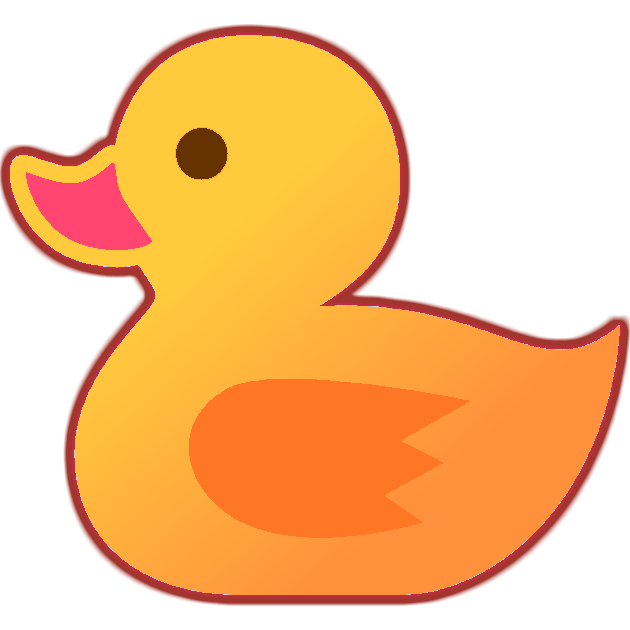
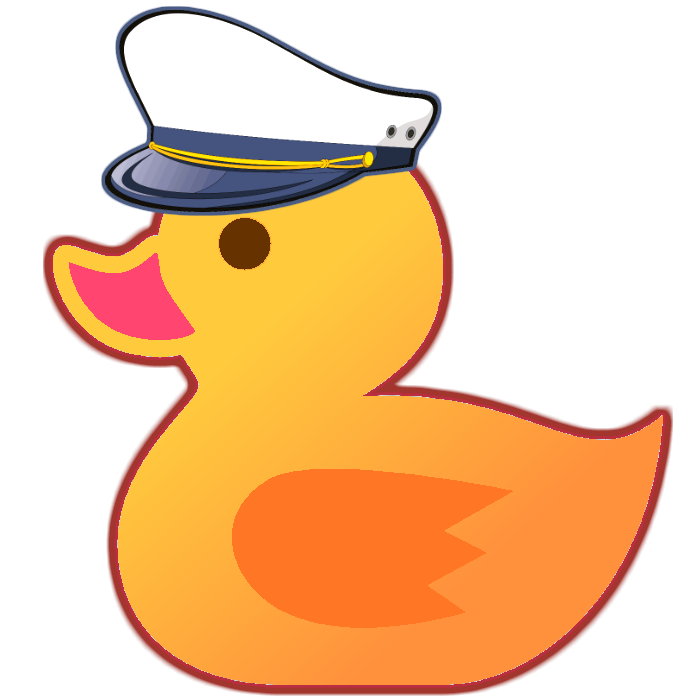
added youtube video

diff --git a/README.md b/README.md
@@ -2,11 +2,12 @@
     <img alt="CaptainDuckDuck" src="https://raw.githubusercontent.com/githubsaturn/captainduckduck/master/icon.png" width="300"/>
 </p>
 
-<p align="center">
-  <a href="https://raw.githubusercontent.com/githubsaturn/captainduckduck/master/screenshot-collection.png">
-    <img alt="CaptainDuckDuck" src="https://raw.githubusercontent.com/githubsaturn/captainduckduck/master/screenshot-collection.png" width="500"/>
-  </a>
-</p>
+
+
+Video Overview and Tutorial
+===
+
+[![YouTube](https://raw.githubusercontent.com/githubsaturn/captainduckduck/master/youtube-snapshot.png)](https://www.youtube.com/watch?v=576RsaocNUE)
 
 
 # CaptainDuckDuck
@@ -25,15 +26,15 @@ Captain is a modern automated app deployment & web server manager.
 
 #### A) Domain Name
 
-During installation, you'll be asked to point a wildcard DNS entry to your Captain IP Address. If you don't know what this is, see <a href="#setup-domain-and-dns">Domain and DNS</a>. This will cost you as low as $2 a year.
+During installation, you'll be asked to point a wildcard DNS entry to your Captain IP Address. If you need help with domain name, see <a href="#setup-domain-and-dns">Domain and DNS</a>. This will cost you as low as $2 a year.
 
 #### B) Server with a Public IP
 
-Captain has to be installed on a machine with a public IP address. If you don't know what this is, see <a href="#server--public-ip-address">Server & Public IP address</a>. This will cost you as low as $5 a month. If you use the DigitalOcean referral code, you'll get $10 credit - two months worth of free server: https://m.do.co/c/6410aa23d3f3 
+Captain has to be installed on a machine with a public IP address. If you need help with Public IP, see <a href="#server--public-ip-address">Server & Public IP address</a>. This will cost you as low as $5 a month. If you use the DigitalOcean referral code, you'll get $10 credit - two months worth of free server: https://m.do.co/c/6410aa23d3f3 
 
 Note that you can install Captain on your laptop which behind NAT (your router) for testing, but it requires some special setup, like port forwarding.
 
-#### C) Install Docker on Server
+#### C) Install Docker on Server (at least, version 17.06.x)
 
 If you get your server from DigitalOcean, you can select a server with "pre-installed Docker". This will be the easiest option. Otherwise, you can install Docker CE by following this instruction:
 https://docs.docker.com/engine/installation
@@ -50,7 +51,7 @@ You will see a bunch of output on your screen. Once the Captain is initialized, 
 
 ### Step 2: Connect Root Domain
 
-Let's say you own `mydomain.com`. You can set `*.something.mydomain.com` as an `A-record` in your DNS settings to point to the IP address of the server where you installed Captain. If you don't know how to do this, see <a href="#setup-domain-and-dns">Domain and DNS</a>. Note that it can take several hours for this change to take into effect. Go to `http://[IP_OF_YOUR_SERVER]:3000` in your browser, and enter `something.mydomain.com` as your root, and click update. If DNS changes are succesful, you will get a success message and you can access your captain from `captain.something.mydomain.com` instead of `http://[IP_OF_YOUR_SERVER]:3000`.
+Let's say you own `mydomain.com`. You can set `*.something.mydomain.com` as an `A-record` in your DNS settings to point to the IP address of the server where you installed Captain. If you need help with this, see <a href="#setup-domain-and-dns">Domain and DNS</a>. Note that it can take several hours for this change to take into effect. Go to `http://[IP_OF_YOUR_SERVER]:3000` in your browser, and enter `something.mydomain.com` as your root, and click update. If DNS changes are succesful, you will get a success message and you can access your captain from `captain.something.mydomain.com` instead of `http://[IP_OF_YOUR_SERVER]:3000`.
 
 ### Step 3: Install Captain CLI
 
@@ -163,7 +164,7 @@ Enter `some-random-word.something.mydomain.com` and check to see if the IP is co
 
 ### Server & Public IP address
 
-If you don't know how to get a server, DigitalOcean is probably the easiest solution for you. Plus, you can use this link and get $10 credit!
+If this is your first time setting up a server, DigitalOcean is probably the easiest solution for you. Plus, you can use this link and get $10 credit!
 https://m.do.co/c/6410aa23d3f3
 
 DigitalOcean calls their servers "Droplets". After signing up, go to the Droplets section and click on "Create Droplet". Under choose an image, click on One-Click Apps, and select Docker. This way, Docker comes pre-installed with your server. If you have an SSH key, enter your SSH key at the bottom of this Droplet Create page, if not, don't worry, it's just alternative password. Once your Droplet is created, you will get an email with IP address of your server, user and pass. If you know how to SSH, then great, SSH into your server. If not, again don't worry! DigitalOcean is really beginner friendly. Simply go to your Droplets section on your DigitalOcean account, click on the Droplet you created. From the menu on the left side, select ACCESS and lauch console. Enter `root` when asked for login and enter the password which you received in email. If you didn't receive your password in email, click on Reset Root Password below Launch Console button. Note that you'll have to type your long password. The web interface that DigitalOcean gives you does not support Copy/Paste ctrl+c ctrl+v.
